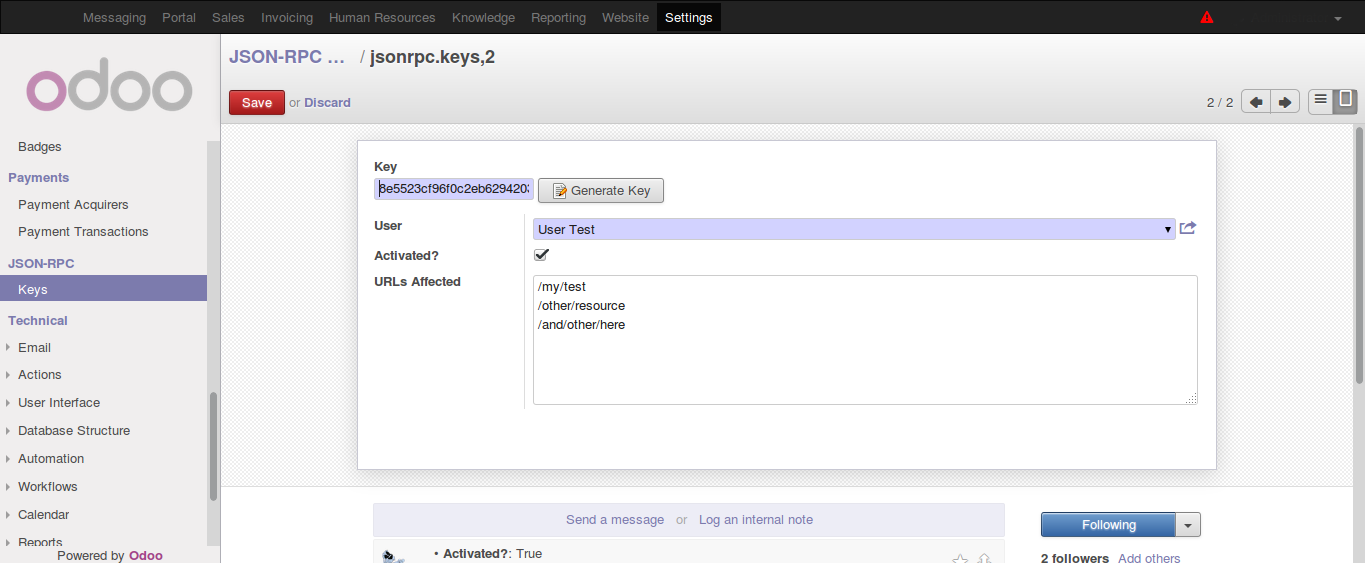
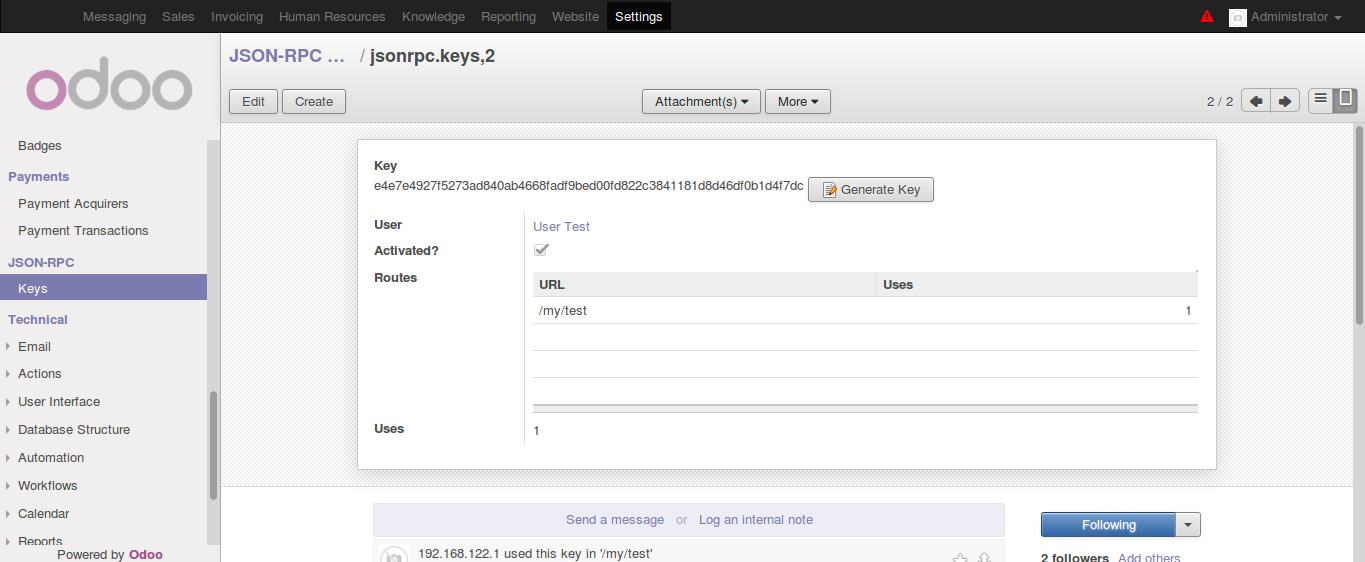
[8.0][IMP][jsonrpc_keys] More tracking

diff --git a/jsonrpc_keys/static/description/index.html b/jsonrpc_keys/static/description/index.html
@@ -48,8 +48,9 @@
 {
 	"jsonrpc": "2.0",
 	"id": 1234,
+	"method": "call",
 	"params": {
[2 lines of base64/hex data omitted]
 		"num_tlf": "+34999999999"
 	}
 }
@@ -69,7 +70,23 @@
   					<li>The key isn't sent to the controller.</li>
   					<li>The controller only is called if the "check_key" procress finish normally (user identified).</li>
   					<li>Only can be used with JSON-RPC controllers... 'http' will cause an exception.</li>
+  					<li>Keys without routes are available on all json-rpc calls.</li>
   				</ul>
+  			</div>
+  		</div>
+  		
+   		<div class="row">
+  			<div class="col-md-9 mt32">
+    			<br/>
+      			<h2 class="text-muted">Issues</h2>
+      		</div>
+  			<div class="col-md-9 mb32">
+  				If you get:
+  				<pre>
+	raise osv.except_osv(_('Invalid Action!'), _("Unable to send email, please configure the sender's email address or alias."))
+except_orm: (u'Invalid Action!', u"Unable to send email, please configure the sender's email address or alias.")			
+  				</pre>
+  				Check that email of the 'partner' associated to the 'user' is not empty.
   			</div>
   		</div>
   		
@@ -78,7 +95,7 @@
     	<div class="row">
       		<div class="col-md-9 mb32">
        	 		<a target="_blank" href="http://www.eiqui.com">
-       	 			<img src="eiqui_logo.png" class="img-responsive" />
+       	 			<img src="eiqui_logo.png" class="img-responsive center-block" />
        	 		</a>
       		</div>
     	</div>    

diff --git a/jsonrpc_keys/models/ir_http.py b/jsonrpc_keys/models/ir_http.py
@@ -23,6 +23,7 @@ import werkzeug
 import openerp
 from openerp.http import request
 from openerp.osv import orm
+from openerp.tools.translate import _
 
 _logger = logging.getLogger(__name__)
 
@@ -31,7 +32,7 @@ class ir_http(orm.AbstractModel):
 
     def _dispatch(self):
         if hasattr(request, 'jsonrpckey'):
-            request.pop('jsonrpckey')
+            delattr(request, 'jsonrpckey')
             
         func = None
         try:
@@ -39,36 +40,39 @@ class ir_http(orm.AbstractModel):
             request.jsonrpckey_enabled = func.routing.get('jsonrpckey', False)
         except werkzeug.exceptions.NotFound:
             request.jsonrpckey_enabled = True
+            
+        key_id = None
+        key_res = None
 
         if request.jsonrpckey_enabled:
             key = None
+            if request.params.has_key('key'):
+                key = request.params['key']
+                request.params.pop('key')
+                
             try:
                 if not func.routing['type'] == 'json':
                     raise Exception("Can't use jsonrpc_keys in non json-rpc route")
-            except Exception, e:
-                resp = super(ir_http, self)._handle_exception(e)
-                return resp
-            
-            # Comprobar Key y obtener usuario
-            try:
-                key = request.params['key'] if request.params.has_key('key') else None
+                
                 if not key or len(key) == 0:
                     raise Exception('Invalid Key!')
-            except Exception, e:
-                resp = super(ir_http, self)._handle_exception(e)
-                return resp
-            
-            request.params.pop('key')
-        
-            try:
+                
                 key_obj = request.env['jsonrpc.keys'].sudo()
-                user_id = key_obj.check_key(key, request.httprequest.path)
-                if not user_id:
+                key_id, key_res = key_obj.check_key(key, request.httprequest.path)
+                if not key_id:
                     raise Exception('Access Denied!')
-                setattr(request, 'jsonrpckey', { 'user': user_id })
+                
+                setattr(request, 'jsonrpckey', { 'user': key_id.user_id })
             except Exception, e:
                 resp = super(ir_http, self)._handle_exception(e)
                 return resp
         
         resp = super(ir_http, self)._dispatch()
+        
+        if request.jsonrpckey_enabled and key_id:
+            if key_res:
+                key_res.increase_uses()
+            key_id.increase_uses()
+            key_id.sudo(user=key_id.user_id).message_post(body=_("%s used this key in '%s'") % 
+                                      (request.httprequest.remote_addr, request.httprequest.path))
         return resp

diff --git a/jsonrpc_keys/models/jsonrpc_keys.py b/jsonrpc_keys/models/jsonrpc_keys.py
@@ -21,7 +21,26 @@
 from openerp import models, fields, api, exceptions
 import os
 import binascii
+import logging
 
+_logger = logging.getLogger(__name__)
+
+class jsonrpc_routes(models.Model):
+    _name='jsonrpc.routes'
+    
+    @api.one
+    def increase_uses(self):
+        self.uses += 1
+    
+    @api.onchange('url')
+    @api.one
+    def _onchange_url(self):
+        _logger.info("TEEEST")
+        self.uses = 0
+    
+    url = fields.Char(string="URL", size=128, required=True)
+    uses = fields.Integer(string="Uses", default=0)
+    jsonrpc_keys_id = fields.Many2one('jsonrpc.keys', 'Key')
 
 class jsonrpc_keys(models.Model):
     _name='jsonrpc.keys'
@@ -37,22 +56,30 @@ class jsonrpc_keys(models.Model):
     def check_key(self, key, url):
         key_id = self.search([('key', '=', key), ('actived', '=', True)], limit=1)
         if not key_id:
-            return None
-        if key_id.urls and len(key_id.urls) > 0:
-            clean_url = url.split('?')[0]
-            urls = key_id.urls.split('\n')
-            if not clean_url in urls:
-                return None
-        return key_id.user_id
+            return (None, None)
+        if key_id.json_rpc_routes_ids and len(key_id.json_rpc_routes_ids) > 0:
+            clean_url = url.split('?')[0].lower()
+            for key_res in key_id.json_rpc_routes_ids:
+                if clean_url == key_res.url.lower():
+                    return (key_id, key_res)
+            return (None, None)
+        return (key_id, None)
     
     @api.one
     def generate_key(self):
         self.key = binascii.hexlify(os.urandom(32)).decode()
         return True
     
+    @api.one
+    def increase_uses(self):
+        self.uses += 1
+        return True
+    
     
     key = fields.Char(string='Key', size=128, required=True, unique=True, track_visibility='onchange')
     user_id = fields.Many2one('res.users', string='User', required=True, track_visibility='always')
     actived = fields.Boolean(string='Activated?', default=True, track_visibility='always')
-    urls = fields.Char(string='URLs Affected', track_visibility='onchange')
+    uses = fields.Integer(string="Uses", default=0)
+    json_rpc_routes_ids = fields.One2many('jsonrpc.routes', 'jsonrpc_keys_id', 
+                                            'Routes', track_visibility='onchange')
     

diff --git a/jsonrpc_keys/__openerp__.py b/jsonrpc_keys/__openerp__.py
@@ -21,7 +21,7 @@
 
 {
     'name': 'JSON-RPC User Key',
-    'version': '1.1',
+    'version': '2.0',
     'author': "Alexandre Díaz (Aloxa Solucións S.L.) <alex@aloxa.eu>",
     'website': 'https://www.eiqui.com',
     'category': 'API/JSON-RPC',
